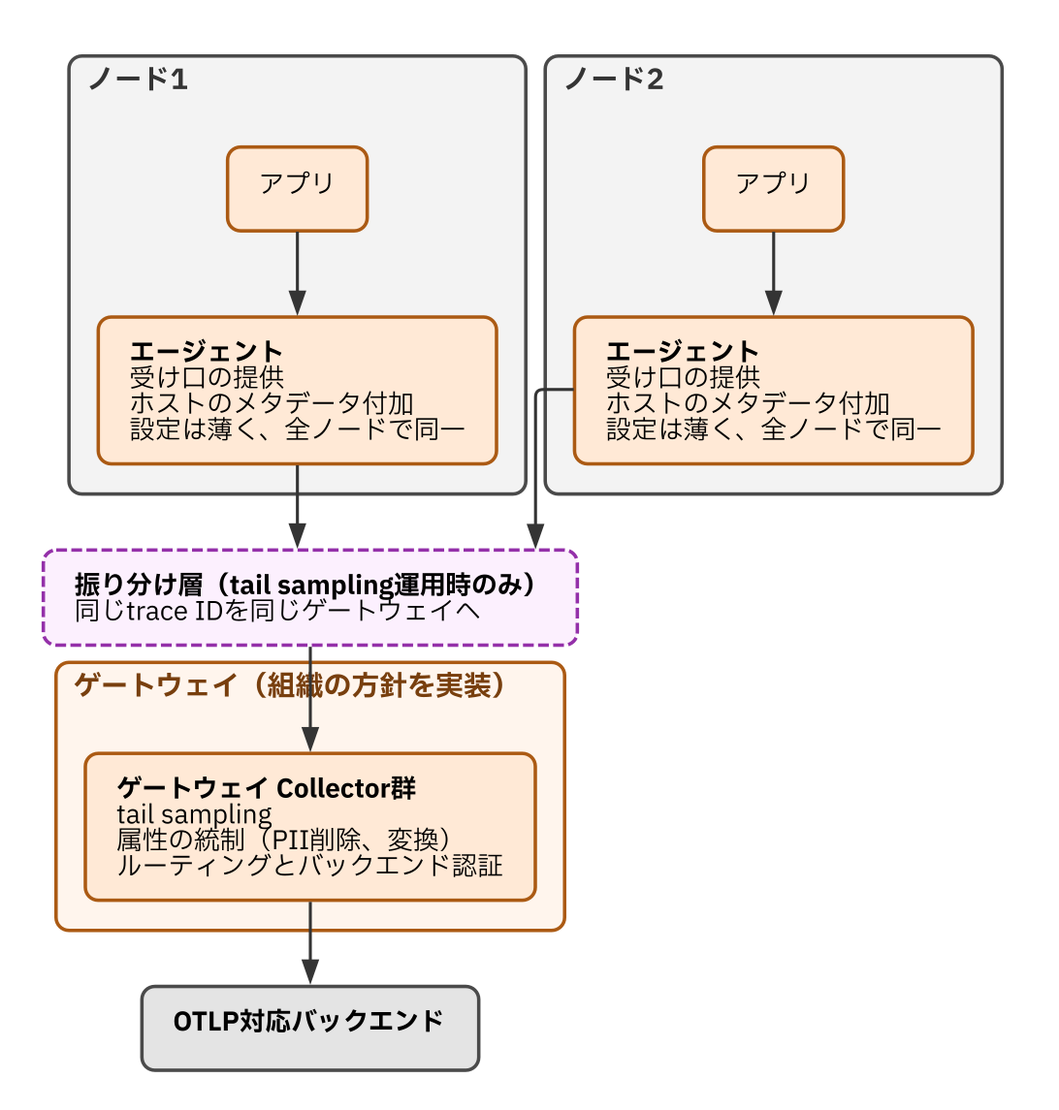
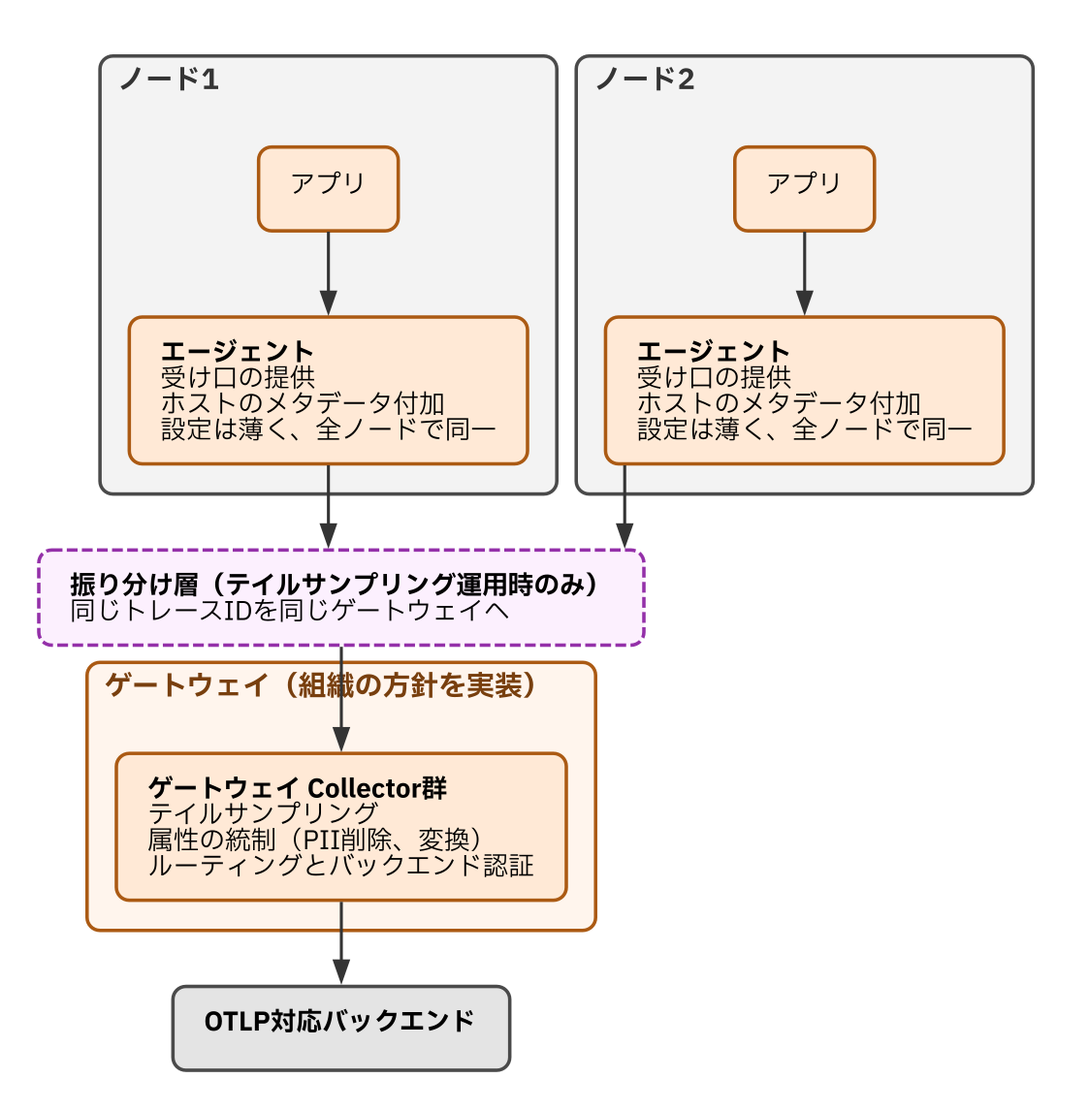
style(otel-platform): 4章レビューの指摘を全章へ当てる
レビューは4章に対するものだが、同じ問題を全章で探して直した。

- レシーバー、プロセッサー、エクスポーター、トレースID、マニフェスト、
  スキーマURLをカタカナにした。本文28件と図7件。図中のテイルサンプリングも含む
- 「本書の前提」が定義されていなかったので、1章に「本書が想定する環境」を
  追加した。4チームの独立運用、Kubernetes中心、送信先の中央管理、
  少人数のプラットフォームチームの4点を挙げ、4章からはこの節を参照する
- 手で直された方針を全章へ広げた。漢数字を算用数字に（数える語のみ、
  「一方」「一部」などの熟語は除く）、コンポーネント名を大文字に
  （Transformプロセッサー、Memory Limiterプロセッサー、Batchプロセッサー、
  Load Balancingエクスポーター、空白なしで統一）
- unify_terms.py を追加した。コードブロックとインラインコードとURLを
  退避してから置換する

diff --git a/unify_terms.py b/unify_terms.py
@@ -1,0 +1,121 @@
+#!/usr/bin/env python3
+"""用語の表記を本文と図の中で統一する。
+
+コードブロック、インラインコード、URL、モジュールパスを退避してから
+置換するので、識別子や YAML のキーを壊さない。
+
+置換対象は TERMS に書く。左辺は正規表現で、英数字の境界は呼び出し側で
+付けずにこのスクリプトが付ける（部分一致で別の語を壊さないため）。
+
+使い方:
+    python3 unify_terms.py books/foo/*.md diagrams/foo/*.dot
+
+注意:
+  - 全ファイルを変換して検証してから書き込む。途中で失敗しても
+    一部だけ変換された状態を残さない。
+  - 退避の目印には私用領域の文字だけを使う。NUL を使うとファイルが
+    バイナリ扱いになり、grep や diff が中身を見せなくなる。目印に
+    英数字を混ぜると、置換対象の語の境界判定にすり抜けて壊れる。
+"""
+import re
+import sys
+
+# 置換する語。順序に意味がある（長い語を先に置く）。
+TERMS = [
+    # 4章レビュー: Collector のコンポーネント名
+    (r"receiver", "レシーバー"),
+    (r"processor", "プロセッサー"),
+    (r"exporter", "エクスポーター"),
+    (r"trace ID", "トレースID"),
+    (r"manifest", "マニフェスト"),
+    (r"schema URL", "スキーマURL"),
+    # 2章・3章レビュー
+    (r"tail sampling", "テイルサンプリング"),
+    (r"head sampling", "ヘッドサンプリング"),
+    (r"trace context", "トレースコンテキスト"),
+    (r"annotation", "アノテーション"),
+    (r"Baggage", "バゲッジ"),
+]
+
+# 退避に使う目印。私用領域の文字だけで組み、英数字を含めない。
+# 個数は「1文字＋区切り」を繰り返して表現する。
+MARK = "\ue000"
+SEP = "\ue001"
+
+
+def _encode(n: int) -> str:
+    return MARK + SEP * n + MARK
+
+
+def protect(s: str):
+    """置換してはいけない範囲を目印へ退避する。"""
+    saved = []
+
+    def stash(m):
+        saved.append(m.group(0))
+        return _encode(len(saved) - 1)
+
+    # 順序が重要。コードブロックを先に退避しないと、
+    # 中の URL やインラインコードを個別に拾ってしまう。
+    patterns = [
+        r"```.*?```",                      # コードブロック
+        r"`[^`\n]+`",                      # インラインコード
+        r"https?://[^\s)\ue000\ue001]+",   # URL（目印文字は含めない）
+        r"\[\^[^\]]+\]",                   # 脚注の参照と定義
+    ]
+    for pat in patterns:
+        s = re.sub(pat, stash, s, flags=re.S)
+    return s, saved
+
+
+def restore(s: str, saved) -> str:
+    """退避した範囲を戻す。入れ子があるので変化しなくなるまで繰り返す。"""
+    for _ in range(10):
+        before = s
+        for i, orig in enumerate(saved):
+            s = s.replace(_encode(i), orig)
+        if s == before:
+            break
+    return s
+
+
+def convert(s: str):
+    s, saved = protect(s)
+    hits = []
+    for pat, rep in TERMS:
+        # 英数字に挟まれた出現は別の語の一部なので触らない。
+        # 「レシーバー」のようなカタカナ語の直後に s が残る形も避ける。
+        regex = re.compile(r"(?<![0-9A-Za-z_])" + pat + r"(s)?(?![0-9A-Za-z_])")
+
+        def sub(m):
+            hits.append(m.group(0))
+            return rep
+
+        s = regex.sub(sub, s)
+    s = restore(s, saved)
+    return s, hits
+
+
+def main(paths):
+    results = {}
+    total = 0
+    for path in paths:
+        with open(path, encoding="utf-8") as f:
+            src = f.read()
+        out, hits = convert(src)
+        if MARK in out or SEP in out:
+            raise SystemExit(f"目印が残った: {path}（復元漏れ）")
+        if out != src:
+            results[path] = out
+            total += len(hits)
+            print(f"{path}: {len(hits)}件 {sorted(set(hits))}")
+
+    # 全ファイルを検証し終えてから書き込む。
+    for path, out in results.items():
+        with open(path, "w", encoding="utf-8") as f:
+            f.write(out)
+    print(f"--- {len(results)}ファイル / {total}件を置換した")
+
+
+if __name__ == "__main__":
+    main(sys.argv[1:])

diff --git a/books/observability-platform-with-otel/00-introduction.md b/books/observability-platform-with-otel/00-introduction.md
@@ -33,7 +33,7 @@ Platform Engineeringでは、プラットフォームチームの仕事を、個
 
 **計装**（instrumentation）は、アプリケーションにテレメトリーを生成させる仕組みです。主なテレメトリーには、リクエスト処理の流れを記録する**トレース**、数値の推移を記録する**メトリクス**、処理中の出来事を記録する**ログ**があります。
 
-トレースを構成する単位が**スパン**です。一つのスパンは、あるサービスでの処理や外部呼び出しなど、一つの作業区間の開始時刻、終了時刻、属性を記録します。呼び出し元のスパンを親としてつなぐことで、一つのトレースを構成します。冒頭では、次のつながりが在庫サービスの手前で切れていました。
+トレースを構成する単位が**スパン**です。1つのスパンは、あるサービスでの処理や外部呼び出しなど、1つの作業区間の開始時刻、終了時刻、属性を記録します。呼び出し元のスパンを親としてつなぐことで、1つのトレースを構成します。冒頭では、次のつながりが在庫サービスの手前で切れていました。
 
 ```text
 フロントエンドのスパン
@@ -43,7 +43,7 @@ Platform Engineeringでは、プラットフォームチームの仕事を、個
 
 各サービスは自分のスパンを送信し、保存先が親子関係をもとにトレースを組み立てます。テレメトリーには、送信元を表す**リソース（resource）属性**が付きます。サービス名を表す `service.name` や環境の識別子もリソース属性です。
 
-テレメトリーを送り出す部品を **エクスポーター（exporter）** と呼びます。エクスポーターがOTLPという標準プロトコルで送信し、Collectorという中継プロセスを経て、保存と可視化を担うバックエンドに届きます。
+テレメトリーを送り出す部品を **エクスポーター**（exporter） と呼びます。エクスポーターがOTLPという標準プロトコルで送信し、Collectorという中継プロセスを経て、保存と可視化を担うバックエンドに届きます。
 
 図1の点線は、冒頭の分断に関係する通信を表します。分散トレースでは、サービスAがサービスBを呼ぶときに、現在のトレースを識別する文脈をリクエストに載せて渡します。この受け渡しを担う部品が **プロパゲーター（propagator）** です。プロパゲーターが設定されていないサービスでは親子関係を引き継げず、別のトレースとして記録されます。
 
@@ -90,6 +90,17 @@ AIエージェントを開発と運用へ組み込むプラットフォームで
 本書は、[Platform Engineering Kaigi 2026のセッション](https://www.cnia.io/pek2026/sessions/eba4a57f-e4f0-4201-b731-0a37d6a53f7a/)「セルフサービスのオブザーバビリティ基盤をOpenTelemetryで作る」の解説資料です。セッションでは省略する設計の詳細と、手元で確認できるリファレンス実装（9章）を収録しています。
 
 想定する読者は、組織へオブザーバビリティ基盤を提供するPlatform Engineer、Architect、Engineering Managerです。OpenTelemetryの実装経験は前提としません。コード例には主にGoを使いますが、設計上の論点はほかの言語にも適用でき、多言語展開で生じる違いは該当箇所で説明します。
+
+## 本書が想定する環境
+
+本書は具体的な設計を示すため、次の環境を前提にします。以降の章で「本書の前提に対する判断です」と書いている箇所は、OpenTelemetryの仕様やコミュニティの合意で決まっているのではなく、この前提のもとで選んだという意味です。前提が違えば別の選択が正しくなります。
+
+- **複数のチームが、それぞれ独立にサービスを開発・運用している。** 中央のチームが各サービスのコードを変更する権限を持たない
+- **サービスの多くがKubernetes上で動く。** ただしVMや、Kubernetesの外にあるサービスも残っている
+- **テレメトリーの送信先を組織として管理する。** バックエンドの契約、コスト、保持期間、アクセス権限を中央で決める必要がある
+- **プラットフォームチームの人数は、サービスの数に対して少ない。** 依頼を受けて個別に対応する方式では追いつかない
+
+この4つのうち最初の1つが崩れる環境、つまり単一チームがすべてのサービスを持つ場合は、本書の多くの仕組みが過剰になります。設定を1箇所で管理すれば足ります。
 
 :::message
 本書の記述は2026年9月16日時点の情報に基づきます。OpenTelemetryの構成要素には安定性の段階（stable、release candidate、beta、alpha、development）が明示されているため、本文でも確認時点のstabilityを示します。動作確認にはOSSのGrafanaスタック（Grafana、Tempo、Loki、Mimir）を使います。計装からOTLP送信までの設計は特定のバックエンドに依存しませんが、保存後の検索、シグナル間の相関、AIエージェントからの検索方法はバックエンドごとに異なります。バックエンド固有の箇所は本文で明記します。

diff --git a/books/observability-platform-with-otel/70-ai_driven_operations.md b/books/observability-platform-with-otel/70-ai_driven_operations.md
@@ -23,9 +23,9 @@ AIエージェントは複数の調査を並列に実行できますが、クエ
 
 ## 機械可読テレメトリーの条件
 
-1章では、スキーマを統制して機械から参照できるようにすると、AIエージェントの誤ったクエリを減らせるという仮説を置きました。生成したクエリに存在しない属性名が入れば、結果は空になります。一つの値だけを検索すれば、別名を使うデータは対象に入りません。AIエージェントが表記揺れを調べるには、利用可能な属性と値の定義を参照する手段が必要です。
+1章では、スキーマを統制して機械から参照できるようにすると、AIエージェントの誤ったクエリを減らせるという仮説を置きました。生成したクエリに存在しない属性名が入れば、結果は空になります。1つの値だけを検索すれば、別名を使うデータは対象に入りません。AIエージェントが表記揺れを調べるには、利用可能な属性と値の定義を参照する手段が必要です。
 
-シグナル間の移動には[**exemplar**](https://opentelemetry.io/docs/specs/otel/metrics/data-model/#exemplars)を使います。exemplarは、メトリクスの計測点へ代表するtrace IDを記録する仕組みです。メトリクスからトレースへ移り、さらにtrace IDとspan IDから関連するログを検索できます。
+シグナル間の移動には[**exemplar**](https://opentelemetry.io/docs/specs/otel/metrics/data-model/#exemplars)を使います。exemplarは、メトリクスの計測点へ代表するトレースIDを記録する仕組みです。メトリクスからトレースへ移り、さらにトレースIDとspan IDから関連するログを検索できます。
 
 AIエージェントが検索に使う情報と、それを提供する基盤の対応は次のとおりです。
 
@@ -33,7 +33,7 @@ AIエージェントが検索に使う情報と、それを提供する基盤の
 |---|---|---|
 | 属性の名前と意味が統一されている | クエリで使う属性を一意に選ぶ | セマンティック規約とCollectorの属性統制 |
 | リソース属性から環境、サービス、バージョン、所有チームを特定できる | 検索範囲と報告先を決める | SDKディストリビューションとエージェントによるリソース属性の付加 |
-| メトリクス、トレース、ログが相関している | 異常な計測点から関連する処理とログへ移る | exemplar、trace ID、span IDの記録 |
+| メトリクス、トレース、ログが相関している | 異常な計測点から関連する処理とログへ移る | exemplar、トレースID、span IDの記録 |
 | スキーマを機械から参照できる | 実在する属性と値の定義を取得する | `weaver registry mcp` で公開した社内レジストリ |
 
 これらは、計装の配布、Collector層、セマンティック規約のガバナンスで提供できます。ただし、調査精度への影響は測って確かめる必要がある仮説です。同じ障害データに対してレジストリの有無や統制の程度を変え、調査結果、参照した属性、発行したクエリを比較して評価します。

diff --git a/books/observability-platform-with-otel/10-sdk_distribution.md b/books/observability-platform-with-otel/10-sdk_distribution.md
@@ -82,7 +82,7 @@ defer func() {
 - 実行環境（Kubernetesやクラウドプロバイダー）のメタデータからリソース属性を自動検出する
 - トレース、メトリクス、ログのプロバイダー（計装のためのインスタンスを返すもの）を構築してグローバルに登録する
 
-ログの組み込みでは、APIの安定性を考慮します。2026年9月時点で、Goのログ関連モジュール（`otel/log` と `otel/sdk/log`）の正式版はv0.22.0のベータであり、stableに達しているのはトレースとメトリクスです[^golog]。安定化に向けたv1.47.0-rc.1も公開されていますが、リリース候補の段階です。各チームがv0のAPIに直接依存すると、破壊的変更のたびに複数のサービスを修正することになります。ディストリビューションだけがv0のAPIに依存すれば、変更への対応箇所を一つに集約できます。
+ログの組み込みでは、APIの安定性を考慮します。2026年9月時点で、Goのログ関連モジュール（`otel/log` と `otel/sdk/log`）の正式版はv0.22.0のベータであり、stableに達しているのはトレースとメトリクスです[^golog]。安定化に向けたv1.47.0-rc.1も公開されていますが、リリース候補の段階です。各チームがv0のAPIに直接依存すると、破壊的変更のたびに複数のサービスを修正することになります。ディストリビューションだけがv0のAPIに依存すれば、変更への対応箇所を1つに集約できます。
 
 [^golog]: opentelemetry-goのモジュール構成とバージョンは[v1.46.0のversions.yaml](https://github.com/open-telemetry/opentelemetry-go/blob/v1.46.0/versions.yaml)で確認できます。mainブランチはリリース候補を含むため、採用する版のタグで確認してください。
 
@@ -113,7 +113,7 @@ defer func() {
 | `OTEL_PROPAGATORS` | 非対応 | contribのautopropで解釈する |
 | `OTEL_SDK_DISABLED` | 非対応 | ディストリビューションで実装する |
 
-対応状況は仕様リポジトリの[コンプライアンス表](https://github.com/open-telemetry/opentelemetry-specification/blob/main/spec-compliance-matrix.md)にまとまっています。非対応分を埋めるのがcontribの[autoexport](https://pkg.go.dev/go.opentelemetry.io/contrib/exporters/autoexport)と[autoprop](https://pkg.go.dev/go.opentelemetry.io/contrib/propagators/autoprop)で、ディストリビューションはこの二つを組み込むことで標準環境変数のサポートを完成させます。
+対応状況は仕様リポジトリの[コンプライアンス表](https://github.com/open-telemetry/opentelemetry-specification/blob/main/spec-compliance-matrix.md)にまとまっています。非対応分を埋めるのがcontribの[autoexport](https://pkg.go.dev/go.opentelemetry.io/contrib/exporters/autoexport)と[autoprop](https://pkg.go.dev/go.opentelemetry.io/contrib/propagators/autoprop)で、ディストリビューションはこの2つを組み込むことで標準環境変数のサポートを完成させます。
 
 ```go
 // OTEL_TRACES_EXPORTER と OTEL_EXPORTER_OTLP_* を解釈する

diff --git a/books/observability-platform-with-otel/80-reference_implementation.md b/books/observability-platform-with-otel/80-reference_implementation.md
@@ -51,7 +51,7 @@ $ docker compose up -d --build
 
 `gateway` を先にビルドします。Supervisor管理のエージェントイメージは、`gateway` のビルド成果物である `otelcol-internal:dev` をベースイメージとして参照しますが、composeはサービス間のビルド順序を保証しません。一括ビルドだけでは、エージェントのビルドが `pull access denied` で失敗することがあります。
 
-初回は、OCBによるCollectorとGoサービスのビルドを実行します。4コアの環境では10分ほどかかりました。Grafanaスタック、OCBでビルドした社内Collector（gatewayとSupervisor管理のエージェント）、OpAMPサーバー、四つのデモサービスからなる10コンテナが起動します。
+初回は、OCBによるCollectorとGoサービスのビルドを実行します。4コアの環境では10分ほどかかりました。Grafanaスタック、OCBでビルドした社内Collector（gatewayとSupervisor管理のエージェント）、OpAMPサーバー、4つのデモサービスからなる10コンテナが起動します。
 
 手元で別のCollectorやGrafana Alloyが動いている場合、エージェントのポート公開が `address already in use` で失敗します。測定した環境でもこれが起きたため、`deploy/docker-compose.override.yaml` で公開ポートをずらしました。
 
@@ -71,7 +71,7 @@ $ for i in $(seq 30); do curl -s localhost:8080/checkout > /dev/null; done
 - リソース属性に、エージェントのリソース detectionが付けた `host.name` と、標準環境変数 `OTEL_RESOURCE_ATTRIBUTES` 経由の `deployment.environment.name` や `team.name` が入っている（2章、4章）
 - スパンに `com.example.delivery.id` が付いていて、ソースコードではWeaver生成の定数で書かれている。`sdk/semconv/` に手書きの属性名文字列はない（6章）
 
-ゲートウェイの属性処理も確認しました。frontendは意図的に `user.email` をスパンへ付けますが、Tempoに保存されたトレースにはこの属性がなく、`com.example.delivery.id` は残っています。transform プロセッサーが `user.email` を転送中に削除しました。
+ゲートウェイの属性処理も確認しました。frontendは意図的に `user.email` をスパンへ付けますが、Tempoに保存されたトレースにはこの属性がなく、`com.example.delivery.id` は残っています。Transformプロセッサーが `user.email` を転送中に削除しました。
 
 メトリクスとログも同じ経路で送ります。otelhttp由来の `http_server_request_duration` はMimirへ、backendがotelslogで出したログはLokiへ届きました。ログのエントリには `trace_id` と `span_id` が付き、トレースから関連するログを検索できます。
 

diff --git a/books/observability-platform-with-otel/40-collector_fleet.md b/books/observability-platform-with-otel/40-collector_fleet.md
@@ -53,7 +53,7 @@ storage:
   directory: /var/lib/otelcol/supervisor
 ```
 
-`agent.executable` には、4章でビルドした社内Collectorを指定します。OCBのmanifestには、opampextensionと、起動確認用のnopreceiverおよびnopexporterを含めます。含めずにSupervisorの管理下で起動すると、ブートストラップに失敗しました。これはリファレンス実装で確認した挙動です。
+`agent.executable` には、4章でビルドした社内Collectorを指定します。OCBのマニフェストには、opampextensionと、起動確認用のnopreceiverおよびnopexporterを含めます。含めずにSupervisorの管理下で起動すると、ブートストラップに失敗しました。これはリファレンス実装で確認した挙動です。
 
 OpAMPサーバーとの接続と設定管理はSupervisorが担当し、opampextensionはSupervisorがCollectorの状態を取得するためのローカルな通信に使います。監督プロセスを外へ置く方式でも、Collector内のextensionは必要です。
 
@@ -67,7 +67,7 @@ Supervisorは[contribのcmd/opampsupervisor](https://github.com/open-telemetry/o
 
 OpAMPを導入すると、設定の管理にはGitOpsを、配布にはOpAMPを使います。両方に個別の設定を持つと、Git上の設定と配布済みの設定が一致しません。そこで、Gitを設定の正となる定義とし、設定リポジトリへのマージを契機にOpAMPサーバーが設定を読み込み、Collectorへ配ります。OpAMPはGitOpsを置き換えず、管理サーバーからCollectorまでの配布を担当します。
 
-OpAMPサーバーはエージェントごとに異なる設定を返せるため、属性でグループを分け、段階的に適用できます。たとえば、一台、一つのクラスタ、全体の順に対象を広げます。
+OpAMPサーバーはエージェントごとに異なる設定を返せるため、属性でグループを分け、段階的に適用できます。たとえば、一台、1つのクラスタ、全体の順に対象を広げます。
 
 Supervisorは、設定適用後にCollectorが起動できない場合に前の設定へ戻す `automatic_config_rollback` と、起動時にサーバーへ接続できない場合に使う `startup_fallback_configs` を備えています。自動ロールバックはデフォルトで無効なため、明示的に有効化します。
 

diff --git a/books/observability-platform-with-otel/60-ai_workload_telemetry.md b/books/observability-platform-with-otel/60-ai_workload_telemetry.md
@@ -104,7 +104,7 @@ func (c *SummaryClient) Summarize(ctx context.Context, doc string) (string, erro
 ![AIエージェントアプリのトレース構造](/images/20260926-agent-trace.png)
 *図1　矢印はスパンの親子関係を表します。エージェント実行の子スパンは左から時間順に並び、gen_ai属性は紫色のスパンに付きます。*
 
-ツールが社内APIを呼び出す場合、その下には通常の分散トレースが続きます。エージェントの処理とマイクロサービスの処理を一つのトレースとして追跡できるため、既存のオブザーバビリティ基盤を利用できます。会話をまたぐ相関には `gen_ai.conversation.id` 属性を使います。
+ツールが社内APIを呼び出す場合、その下には通常の分散トレースが続きます。エージェントの処理とマイクロサービスの処理を1つのトレースとして追跡できるため、既存のオブザーバビリティ基盤を利用できます。会話をまたぐ相関には `gen_ai.conversation.id` 属性を使います。
 
 Claude CodeやCodexなどのAI開発ツールは、自身のテレメトリーをOpenTelemetry形式で出力します。AIツールの利用状況を収集する方法は、[別の記事](https://zenn.dev/ymotongpoo/articles/20260616-ai-cli-otel-grafana)で解説しています。
 
